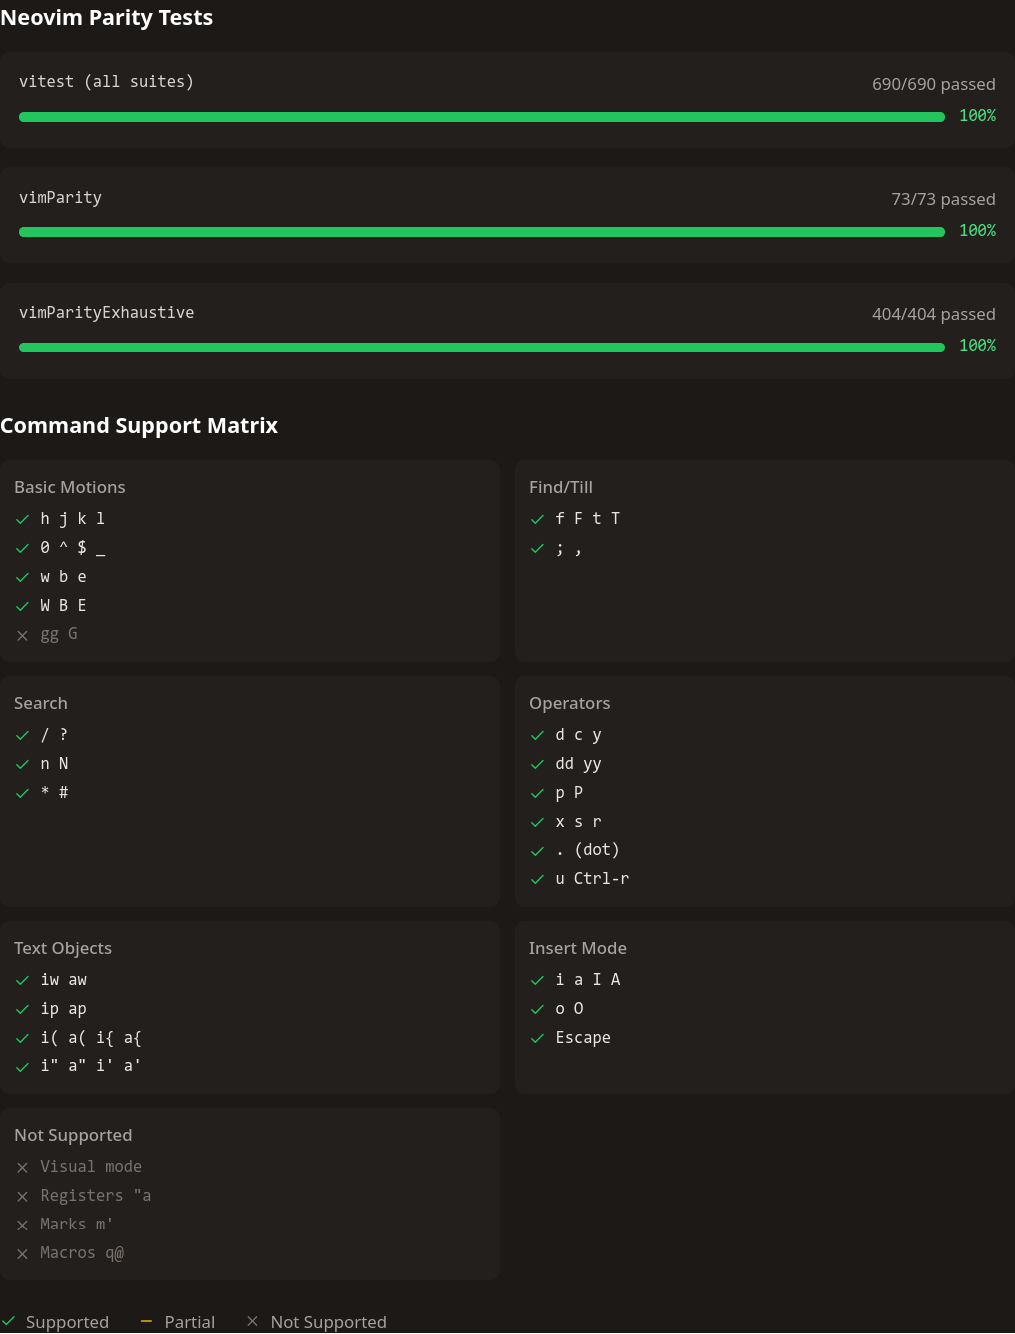
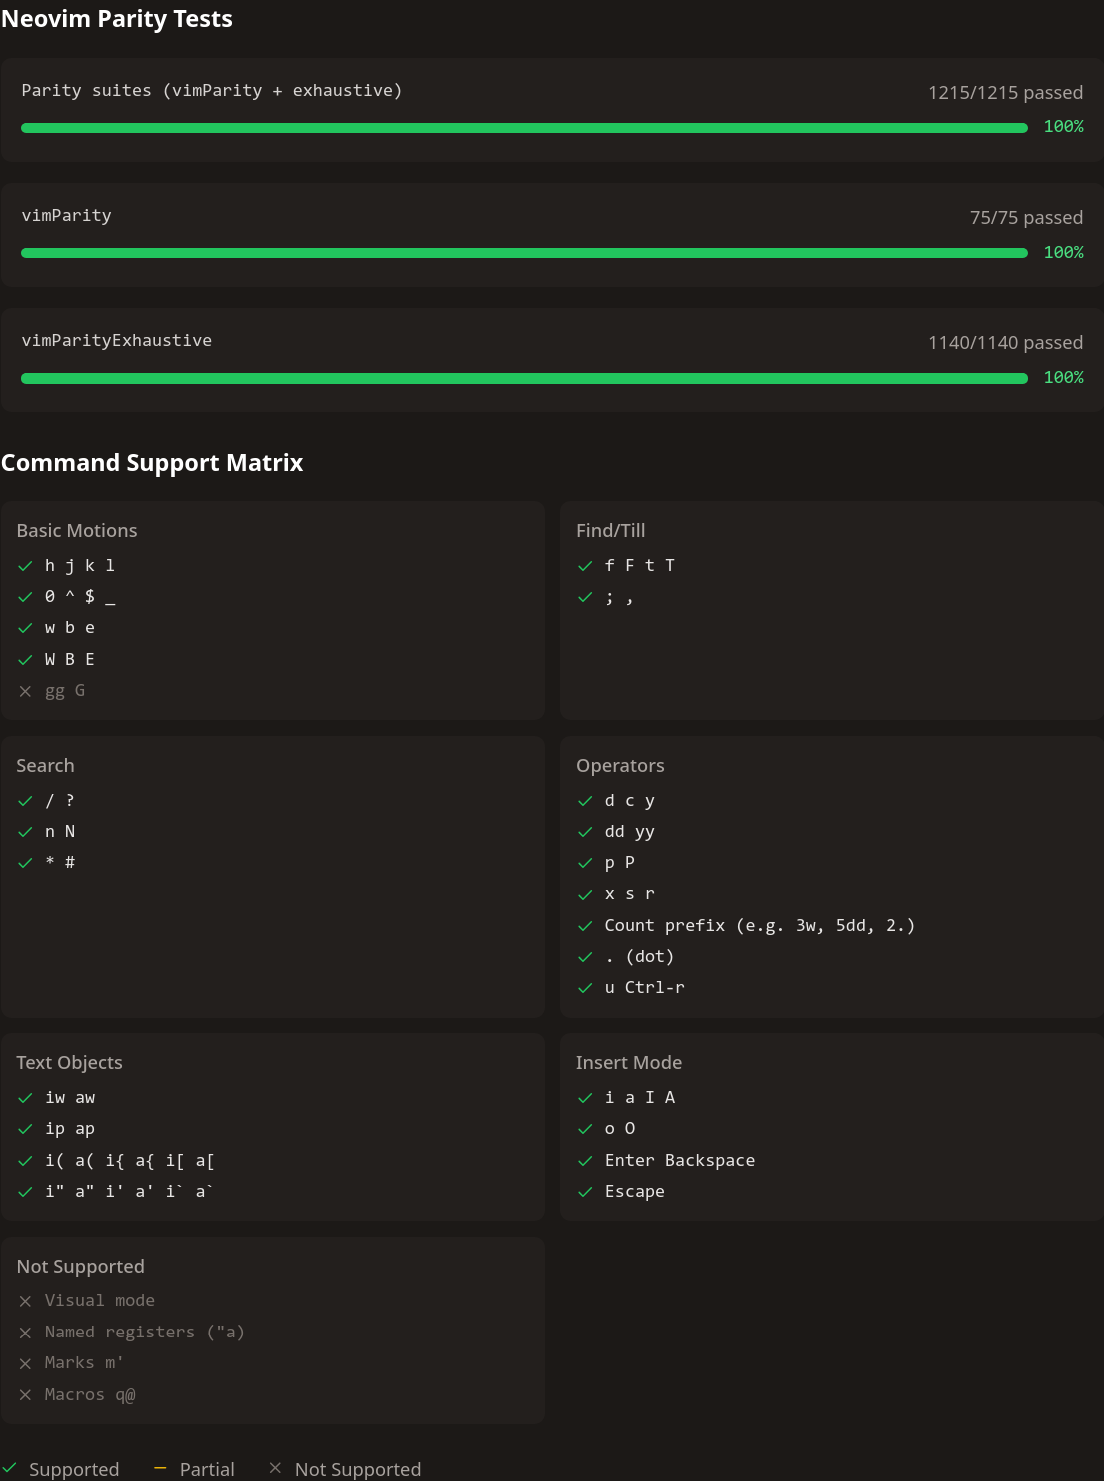
update VimStatus

diff --git a/src/components/settings/VimStatusTab.tsx b/src/components/settings/VimStatusTab.tsx
@@ -41,6 +41,7 @@ const COMMAND_MATRIX: CommandCategory[] = [
       { cmd: 'dd yy', status: 'full' },
       { cmd: 'p P', status: 'full' },
       { cmd: 'x s r', status: 'full' },
+      { cmd: 'Count prefix (e.g. 3w, 5dd, 2.)', status: 'full' },
       { cmd: '. (dot)', status: 'full' },
       { cmd: 'u Ctrl-r', status: 'full' },
     ],
@@ -59,6 +60,7 @@ const COMMAND_MATRIX: CommandCategory[] = [
     commands: [
       { cmd: 'i a I A', status: 'full' },
       { cmd: 'o O', status: 'full' },
+      { cmd: 'Enter Backspace', status: 'full' },
       { cmd: 'Escape', status: 'full' },
     ],
   },
@@ -66,7 +68,7 @@ const COMMAND_MATRIX: CommandCategory[] = [
     name: 'Not Supported',
     commands: [
       { cmd: 'Visual mode', status: 'none' },
-      { cmd: 'Registers "a', status: 'none' },
+      { cmd: 'Named registers ("a)', status: 'none' },
       { cmd: 'Marks m\'', status: 'none' },
       { cmd: 'Macros q@', status: 'none' },
     ],

diff --git a/src/core/motions.ts b/src/core/motions.ts
@@ -349,7 +349,12 @@ export const getMotionTarget = (state: VimState, motion: Motion, forOperator = f
     }
 
     case 'e':
-      return moveToNextRunEnd(buffer, cursor, getSmallWordCategory, !forOperator);
+      return moveToNextRunEnd(
+        buffer,
+        cursor,
+        getSmallWordCategory,
+        forOperator ? getSmallWordCategory(currentLine[col] ?? null) === 'other' : true
+      );
 
     case 'W': {
       let r = line, c = col;

diff --git a/src/core/dot-command.test.ts b/src/core/dot-command.test.ts
@@ -216,7 +216,7 @@ describe('Dot command (.) - repeat last change', () => {
       state = typeKeys(state, 'c$END<Esc>'); // change 'world' to 'END'
       expect(state.buffer[0]).toBe('hello END');
 
-      state = typeKeys(state, 'jw.'); // go to 'line' and repeat
+      state = typeKeys(state, 'j0w.'); // go to 'line' and repeat
       expect(state.buffer[1]).toBe('test END');
     });
 
